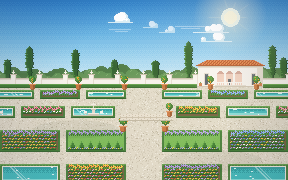
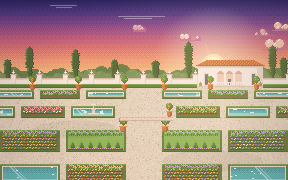
Builder: sunset garden backdrop on Projects and Resume (re-rendered webp, resume uses the same fixed pixel-art layer)

diff --git a/css/pages.css b/css/pages.css
@@ -66,20 +66,21 @@
   .resume-text .resume-doc { margin: 0; box-shadow: none !important; }
 }
 
-/* ───────────── Projects: the garden, without the sculptor ───────────── */
-body.page.page-projects { background: #8fc9ea; }
-.page-projects::before {
+/* ───────────── Projects and Resume: the sunset garden, without the sculptor ───────────── */
+body.page.page-projects, body.page.page-resume { background: #4f377a; }
+.page-projects::before, .page-resume::before {
   content: "";
   position: fixed;
   inset: 0;
   z-index: -1;
-  background: #8fc9ea url("../assets/img/garden-mobile.webp") center top / cover no-repeat;
+  background: #4f377a url("../assets/img/garden-mobile.webp") center top / cover no-repeat;
   image-rendering: pixelated;
   image-rendering: crisp-edges;
 }
 @media (min-aspect-ratio: 4/5) {
-  .page-projects::before { background-image: url("../assets/img/garden-desktop.webp"); }
+  .page-projects::before, .page-resume::before { background-image: url("../assets/img/garden-desktop.webp"); }
 }
+@media print { .page-projects::before, .page-resume::before { display: none; } }
 .page-projects .page-main { max-width: 1120px; padding: calc(var(--header-h) + 22px) 20px 40px; }
 .projects { display: grid; gap: 18px; }
 
